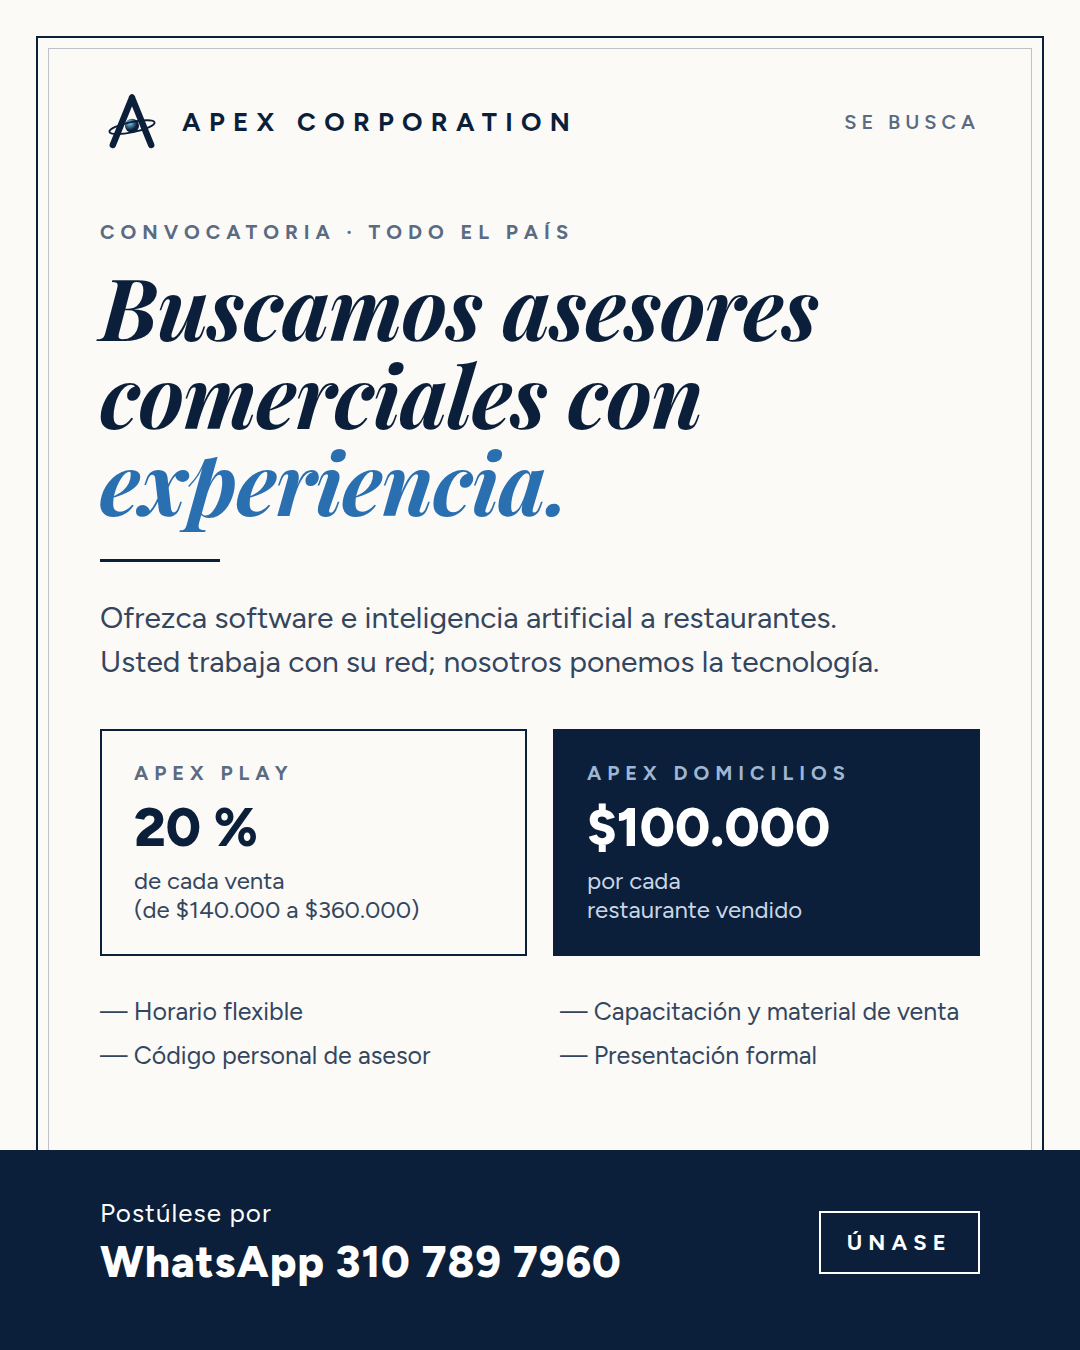
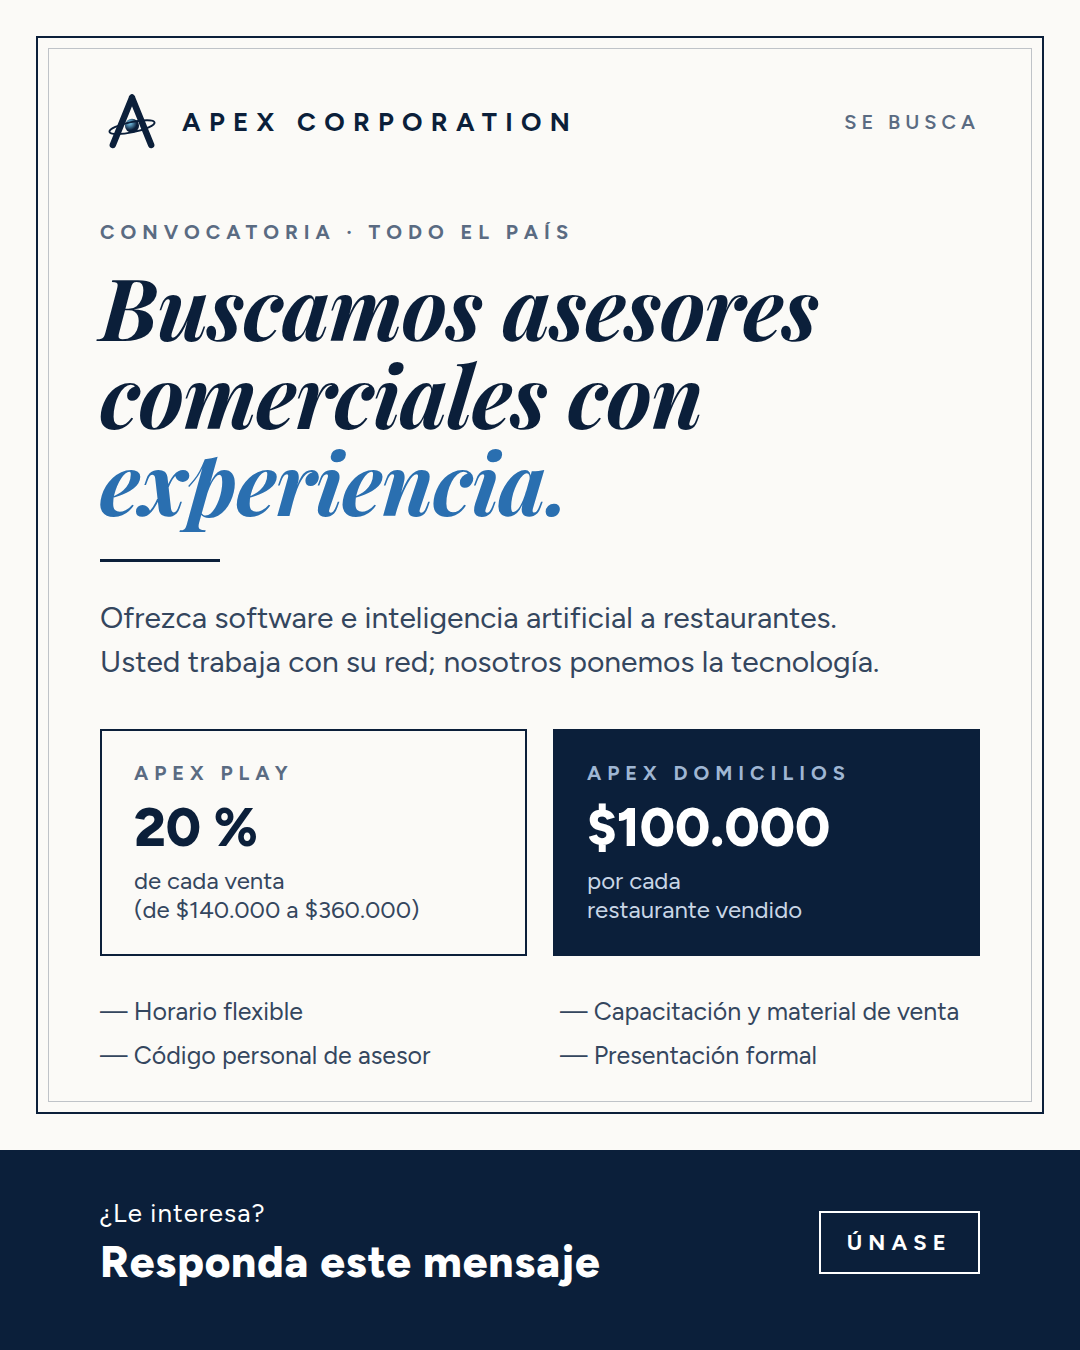
Reclutamiento: versión para enviar por WhatsApp, sin número y con el marco cerrado
Claude-Session: https://claude.ai/code/session_01Pcgrj9bEyTxcRDycAFVu2Q

Changed region(s): [[0.0917, 0.8711, 0.5806, 0.9644], [0.0306, 0.8089, 0.0611, 0.84]]

diff --git a/produccion/redes/piezas/hacer.py b/produccion/redes/piezas/hacer.py
@@ -9,7 +9,7 @@ LOGO = '''<svg viewBox="0 0 100 100" width="{t}" height="{t}"><path d="M50 12 L 
 CSS = '''<style>
 * { box-sizing: border-box; margin: 0; padding: 0; }
 body { width: 1080px; height: 1350px; background: #fbfaf7; color: #0b1f3a; font-family: "Figtree", sans-serif; position: relative; overflow: hidden; }
-.marco { position: absolute; inset: 36px; border: 2px solid #0b1f3a; }
+.marco { position: absolute; top: 36px; left: 36px; right: 36px; bottom: 236px; border: 2px solid #0b1f3a; }
 .marco::after { content: ""; position: absolute; inset: 10px; border: 1px solid rgba(11,31,58,.25); }
 .pie-azul { position: absolute; left: 0; right: 0; bottom: 0; height: 200px; background: #0b1f3a; }
 .cab { position: absolute; top: 90px; left: 100px; right: 100px; display: flex; align-items: center; gap: 18px; }
@@ -40,7 +40,7 @@ reclutar = pagina('''<div style="position:absolute;top:220px;left:100px;right:10
   </div>
   <div style="display:grid;grid-template-columns:1fr 1fr;gap:14px 40px;margin-top:40px;font-size:25px;color:#34465e">
     <div>— Horario flexible</div><div>— Capacitación y material de venta</div><div>— Código personal de asesor</div><div>— Presentación formal</div></div></div>''',
-  "SE BUSCA", "Postúlese por", WA, "ÚNASE")
+  "SE BUSCA", "¿Le interesa?", "Responda este mensaje", "ÚNASE")
 # 2 · Venta a restaurantes
 vender = pagina('''<div style="position:absolute;top:220px;left:100px;right:100px">
   <div class="et">SOFTWARE E IA PARA RESTAURANTES</div>
